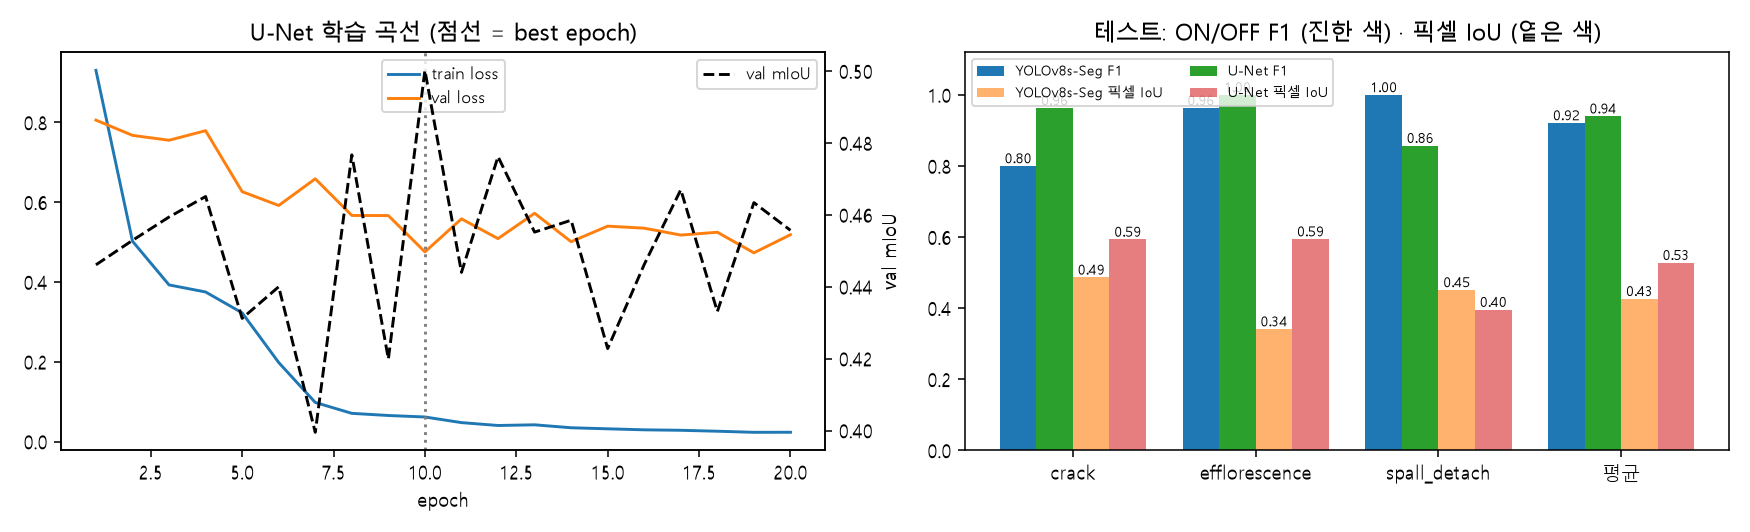
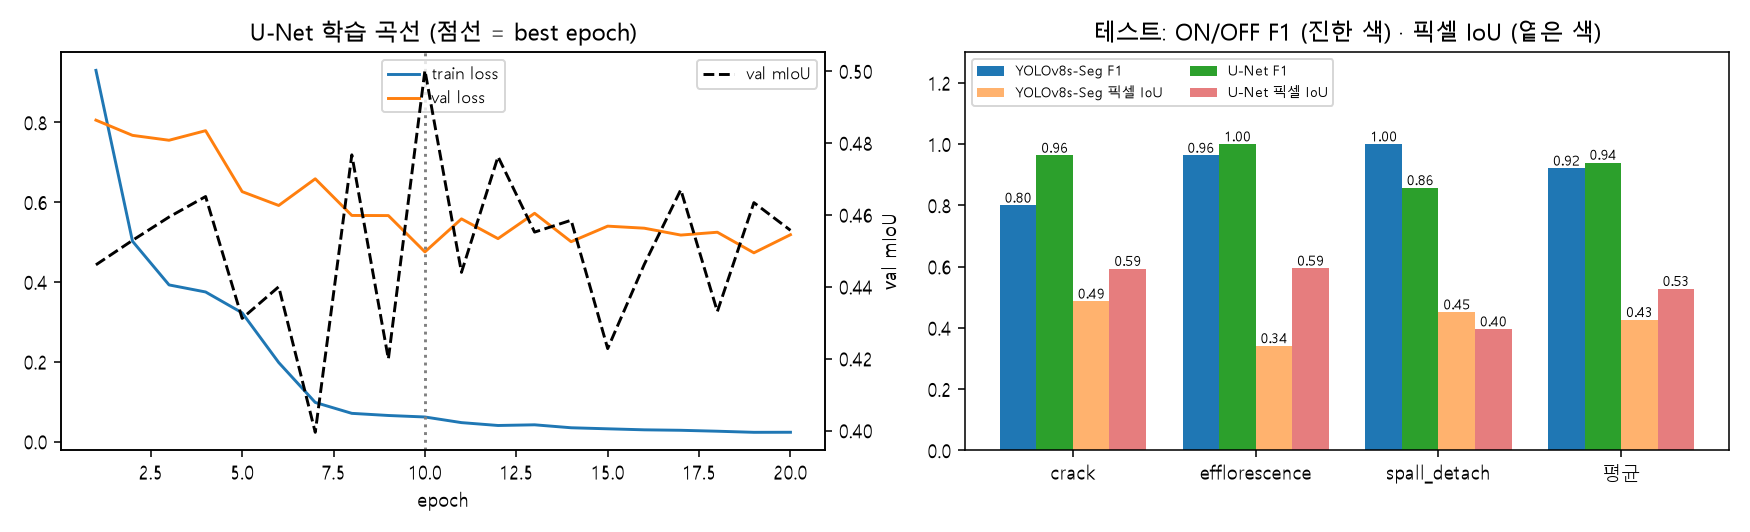
재검수 반영: README 사실 오류 정정 · best.pt만으로 재현 가능하게 run_all 수정 · 그림 겹침 수정
- README: train 원본 수(120, 전체 원본 200) · 공통 임계값 차이(efflo FN 3 + spall FN 1) ·
  efflo 면적 범위는 테스트셋 기준 · U-Net 코사인 lr · 3주차 실행 시간(약 4~5분) · 추론 시간 ±1 ms ·
  Release best.pt로 재현되는 범위를 clone 시험 결과대로 명시
- week3/run_all.bat: 심화 가중치가 없으면 해당 평가를 건너뜀 (clone + Release best.pt만으로 완료 확인)
- adv_eval_run.py: results.csv가 없으면 저장소의 이전 best_epoch 사용
- 주석기준서 v0.3: 검증 보조 오류 10건 → 11건
- 그림: val_threshold_f1 · adv3_hn_eval · adv2_unet(_aug) 라벨/범례 겹침 수정
- week2/run_all.bat 주석: 학습 시간 2.3시간, 직접 주석 스크립트 안내

diff --git a/week3/adv_eval_run.py b/week3/adv_eval_run.py
@@ -67,8 +67,16 @@ def main():
         # 학습이 끝난 ultralytics best.pt는 epoch = -1로 저장된다 (2026-11-20 발견) → results.csv에서 fitness 최고 epoch
         # (ultralytics 8.4 fitness = mAP50-95(B) + mAP50-95(M); 기준 실험 step3에서 epoch 21로 기록과 일치 확인)
         import csv
-        rows = list(csv.DictReader(open(ROOT / "runs" / args.run / "results.csv", encoding="utf-8")))
-        out["best_epoch"] = int(max(rows, key=lambda r: float(r["metrics/mAP50-95(B)"]) + float(r["metrics/mAP50-95(M)"]))["epoch"])
+        res = ROOT / "runs" / args.run / "results.csv"
+        prev = WEEK3 / "adv_runs" / f"{args.tag}.json"
+        if res.exists():
+            rows = list(csv.DictReader(open(res, encoding="utf-8")))
+            out["best_epoch"] = int(max(rows, key=lambda r: float(r["metrics/mAP50-95(B)"]) + float(r["metrics/mAP50-95(M)"]))["epoch"])
+        elif prev.exists():
+            # Release의 best.pt만 받은 경우(results.csv 없음): 저장소에 있는 이전 기록의 값을 그대로 쓴다
+            out["best_epoch"] = json.loads(prev.read_text(encoding="utf-8")).get("best_epoch")
+        else:
+            out.pop("best_epoch", None)
     out["seg_test"] = seg_metrics(model, "test", args.tag)
     out["seg_val"] = seg_metrics(model, "val", args.tag)
     out.update(select_and_test(model, args.tag))

diff --git a/week3/adv3_hn_eval.py b/week3/adv3_hn_eval.py
@@ -90,7 +90,8 @@ def main():
     ax[1].set_xticklabels([f"val 음성 조각 {neg['기준']['val']['n']}개", f"test 음성 조각 {neg['기준']['test']['n']}개"])
     ax[1].set_title("음성 조각 중 결함으로 예측한 비율")
     for a in ax:
-        a.legend()
+        a.margins(y=0.25)                    # 범례 · 막대 값 라벨이 막대와 겹치지 않게 위쪽 여유
+        a.legend(loc="upper left")
     plt.tight_layout()
     plt.savefig(WEEK3 / "adv3_hn_eval.png", dpi=140)
     plt.close()

diff --git a/week3/adv2_unet_eval.py b/week3/adv2_unet_eval.py
@@ -147,7 +147,7 @@ def main():
         ax[1].bar_label(b, fmt="%.2f", fontsize=7)
     ax[1].set_xticks(x)
     ax[1].set_xticklabels(CLASS_LIST + ["평균"])
-    ax[1].set_ylim(0, 1.12)
+    ax[1].set_ylim(0, 1.3)                                  # 범례가 막대 값 라벨을 가리지 않게
     ax[1].set_title("테스트: ON/OFF F1 (진한 색) · 픽셀 IoU (옅은 색)")
     ax[1].legend(fontsize=7, ncol=2, loc="upper left")
     plt.tight_layout()

diff --git a/week3/step3_threshold.py b/week3/step3_threshold.py
@@ -64,6 +64,7 @@ def main():
     ax.set_xlabel("Confidence threshold")
     ax.set_ylabel("F1-score")
     ax.set_title("Validation F1 by Threshold (val 40장, ○ = 선택)")
+    ax.set_ylim(top=max(max(v) for v in all_scores.values()) + 0.04)   # 선택점 라벨이 위쪽 테두리에 걸리지 않게
     ax.legend()
     ax.grid(True, alpha=0.4)
     plt.tight_layout()

diff --git a/README.md b/README.md
@@ -63,7 +63,7 @@
 
 ### 1.2 사용한 데이터 및 전처리
 
-- **규모:** 제공 4,116장(train 4,036 · val 40 · test 40, 모두 1920×1080 원본 또는 그 증강본). train 중 3,916장은 증강본(파일명 `_aug` · `_efflo_`)이고 원본은 200장이다. val · test에는 증강본이 없다(파일명 기준 40/40장 확인).
+- **규모:** 제공 4,116장(train 4,036 · val 40 · test 40, 모두 1920×1080 원본 또는 그 증강본). train 4,036장 중 3,916장은 증강본(파일명 `_aug` · `_efflo_`)이고 120장이 원본이다(원본은 train 120 · val 40 · test 40 = 200장). val · test에는 증강본이 없다(파일명 기준 40/40장 확인).
 - **무결성:** 0바이트 영상 63장(train)을 뺐다. 라벨 파일은 있었지만 영상을 읽을 수 없다(부록 A).
 - **누수 제거:** test의 `URT017_2020_02_08_001_24512`와 train 원본이 픽셀 상관 1.000(같은 영상의 재인코딩)이었다. 그 원본과 증강본 55장을 train에서 뺐다.
 - **원본 ID 단위 분할:** 파일명에서 원본 ID(`_aug` · `_efflo_` · `_jpg.rf.` 앞부분)를 뽑아 같은 원본에서 나온 영상이 한 split에만 들어가게 했다. 결과는 train 3,918 · val 40 · test 40장(원본 ID 119 · 40 · 40)이고, split 사이 원본 ID 겹침은 0이다([week2/split_report.md](week2/split_report.md)).
@@ -85,7 +85,7 @@
 |---|---|---|---|
 | **YOLOv8s-Seg** (본 실험) | CSP 백본 + FPN/PAN + 검출 헤드 + 프로토타입 마스크 헤드, 11.8M 파라미터, COCO 사전학습 | imgsz 960 · batch 4 · AdamW lr0 0.00015 · 60 epoch · patience 20 · Mosaic 0 · MixUp 0 · seed 42 (논문 Table 1 = 강의 13쪽) | 기준 · 논문 재현 |
 | YOLOv8s-Seg + 하드네거티브 | 같음 | 같은 설정 · 같은 seed, train에 사람이 확인한 배경 영상 54장 추가 | 심화 ③ |
-| **U-Net** (resnet34 인코더, ImageNet 사전학습) | 인코더-디코더 + skip, 출력 3채널 sigmoid(클래스마다 따로 — 한 픽셀에 두 결함이 겹칠 수 있음), 24.4M 파라미터 | 960×544 · BCE + Dice(배치 합산) · AdamW lr 1e-4 · 기울기 클리핑 1.0 · 최대 40 epoch · patience 10, 최종 = 강한 증강(scale 0.5 \~ 1.5 · translate 0.1 · HSV) | 모델 비교 (심화 ②) |
+| **U-Net** (resnet34 인코더, ImageNet 사전학습) | 인코더-디코더 + skip, 출력 3채널 sigmoid(클래스마다 따로 — 한 픽셀에 두 결함이 겹칠 수 있음), 24.4M 파라미터 | 960×544 · BCE + Dice(배치 합산) · AdamW lr 1e-4(코사인 감소) · 기울기 클리핑 1.0 · seed 42 · 최대 40 epoch · patience 10, 최종 = 강한 증강(scale 0.5 \~ 1.5 · translate 0.1 · HSV) | 모델 비교 (심화 ②) |
 
 - **imgsz 960을 쓴 이유:** 원본이 1920×1080이고 균열 폭은 약 3px다. 기본 640으로 줄이면 1/3이 되어 균열이 1px 수준으로 사라진다. 960이면 절반 크기라 가는 균열 특징이 더 남는다(논문 한계 03 '입력 960 리사이즈'도 같은 문제를 말한다).
 - **Mosaic · MixUp을 끈 이유:** Mosaic은 네 장을 잘라 붙여 큰 박리 · 백태 영역을 자르고, 벽면 맥락(이음부 · 케이블 위치)을 깨뜨린다. MixUp은 두 영상을 반투명하게 겹쳐 백태의 '흰색 두께감'과 반사 · 얼룩의 차이를 흐린다. 논문 설정(Table 1)도 둘 다 껐다.
@@ -101,7 +101,7 @@
 5. **단계4 테스트 고정 적용:** `thresholds.json`을 읽기만 한다. 테스트 결과를 보고 임계값을 바꾸지 않는다.
 6. **단계5 오류 분석:** 클래스별 FP · FN 영상을 [정답 | 예측] 두 칸 그림으로 뽑아 직접 보고 원인을 적는다.
 
-- **절차를 지킨 증거:** [week3/run_log.txt](week3/run_log.txt)에 실행 시각이 쌓인다. `step3_threshold`(검증셋, sha 123d40a69aca)가 `step4_test`보다 먼저 실행됐고, step4는 json의 값을 그대로 썼다. 같은 순서로 다시 돌려도 같은 임계값 · 같은 결과가 나온다. 2026-11-16 첫 실행과 2026-11-20 재실행 기록이 모두 있다. run_log의 `adv1_common_threshold`는 이름을 바꾸기 전 기록이고, 지금 파일은 `adv4_common_threshold.py`다.
+- **절차를 지킨 증거:** [week3/run_log.txt](week3/run_log.txt)에 실행 시각이 쌓인다. `step3_threshold`(검증셋, sha 123d40a69aca)가 `step4_test`보다 먼저 실행됐고, step4는 json의 값을 그대로 썼다. 같은 순서로 다시 돌려도 같은 임계값 · 같은 결과가 나온다. 2026-11-16 첫 실행과 2026-11-20 · 11-21 재실행 기록이 모두 있다(매번 같은 임계값 · 같은 macro F1 0.921). run_log의 `adv1_common_threshold`는 이름을 바꾸기 전 기록이고, 지금 파일은 `adv4_common_threshold.py`다.
 - 심화 모델(시드 · 하드네거티브 · U-Net · 타일)도 각자 검증셋에서 임계값을 고르고 테스트에 고정 적용한다(`adv_eval_run.py` · `adv2_unet_eval.py` · `adv1_tile.py`).
 
 ### 1.5 실행 방법
@@ -118,11 +118,11 @@ python -m venv .venv
 week1\run_all.bat
 :: 3) 2주차: 무결성 점검 → 원본 ID 단위 분할(→ %USERPROFILE%\datasets\crack-seg-split) → 학습(약 2.3시간) → 학습 곡선
 week2\run_all.bat
-:: 4) 3주차: 평가 6단계 + 심화 평가 + 리포트 표 · 그림 (학습된 가중치 필요, 약 15분)
+:: 4) 3주차: 평가 6단계 + 심화 평가 + 리포트 표 · 그림 (학습된 가중치 필요, 약 4 ~ 5분)
 week3\run_all.bat
 ```
 
-- 학습된 가중치 `best.pt`(기준 모델, 23.9MB)는 코드와 분리해 저장소의 [Releases v1.0](../../releases/tag/v1.0)에 올려 두었다. 받아서 `runs/step3/weights/best.pt`에 넣으면 3주차를 학습 없이 바로 재현할 수 있다.
+- 학습된 가중치 `best.pt`(기준 모델, 23.9MB)는 코드와 분리해 저장소의 [Releases v1.0](../../releases/tag/v1.0)에 올려 두었다. 받아서 `runs/step3/weights/best.pt`에 넣으면, 학습 없이 `week3\run_all.bat`으로 **실습 6단계(③④⑤⑥) · 심화 ①④⑥ · 데이터 통계 · 연산량 · 기준서 그림**이 다시 만들어진다. 새로 clone한 저장소에 Release의 best.pt만 넣고 돌려서 mAP · 임계값 · ON/OFF 표와 그림이 저장소의 파일과 같게 나오는 것을 확인했다(추론 시간만 측정마다 ±1 ms). 심화 ②③⑤ 평가와 모델 비교표는 재학습한 가중치가 있어야 하며, 없으면 그 단계는 건너뛰고 저장소의 결과 파일을 그대로 쓴다.
 - 심화 학습(시드 · 하드네거티브 · U-Net)은 `week3/run_all.bat` 맨 아래 주석의 명령, 또는 `week3/overnight.py`(train_queue.txt 순서로 학습 + 평가)로 다시 만든다. 합계 약 9시간이다.
 
 ### 1.6 코드 파일 설명
@@ -178,7 +178,7 @@ week3\run_all.bat
 
 - **선택:** crack 0.2 · efflorescence 0.02 · spall_detach 0.06 (검증 F1 0.909 · 0.812 · 0.897, macro 0.873).
 - **선택 근거:** 클래스마다 검증 F1 최대인 값을 고르고, 동점이면 낮은 값을 골랐다(놓치는 것이 더 위험한 점검 목적이라 재현율 우선). crack은 0.2와 0.3이 동점이라 0.2, efflorescence는 0.02 \~ 0.3이 동점이라 0.02다. efflorescence 검증 FN은 0.01 이상에서 4건, 가장 낮은 0.001에서도 3건이 남는다. 그 영상들의 백태 최고 신뢰도는 0.007 이하였고, 4건 모두 균열 · 벗겨진 층 모양이 efflorescence로 라벨된 경우였다(3.2절).
-- 세 클래스의 곡선 정점이 다르다(0.2 · 0.02 · 0.06). 그래서 **클래스별 임계값**이 필요하다. 공통 임계값 하나(검증 최적 0.2)와 비교하면 클래스별 쪽이 테스트 macro F1 0.921 vs 0.878로 +0.043 높다(검증 +0.013, [adv4](week3/adv4_common_threshold.md)). 차이는 efflorescence에서 났다. 공통 0.2에서는 FN이 3건 생긴다.
+- 세 클래스의 곡선 정점이 다르다(0.2 · 0.02 · 0.06). 그래서 **클래스별 임계값**이 필요하다. 공통 임계값 하나(검증 최적 0.2)와 비교하면 클래스별 쪽이 테스트 macro F1 0.921 vs 0.878로 +0.043 높다(검증 +0.013, [adv4](week3/adv4_common_threshold.md)). 차이는 주로 efflorescence에서 났다. 공통 0.2에서는 efflorescence FN이 3건(F1 0.963 → 0.870), spall_detach FN이 1건(1.000 → 0.963) 생긴다.
 
 ### 2.3 테스트 ON/OFF 결과 (제출물 ⑤, 임계값 고정)
 
@@ -210,7 +210,7 @@ week3\run_all.bat
 | U-Net (약한 증강) | 계산 불가 | 0.593 / 0.594 / 0.396 / 0.528 | 같음 |
 
 - **U-Net은 두 개 중 검증 mIoU가 높은 쪽(강한 증강 0.529 > 약한 증강 0.500)을 미리 정한 규칙대로 최종으로 골랐다.** 테스트에서는 약한 증강 쪽이 더 좋았다(0.940). 테스트를 보고 바꾸면 반칙이라 그대로 두었다. 검증 40장으로 고른 것이 테스트 40장에서 뒤집히는 사례다.
-- 연산량은 [week3/flops.md](week3/flops.md)에 있다(torch flop counter, RTX 3060 Laptop에서 학습이 끝나 GPU가 한가할 때 잼). U-Net은 YOLO의 2.1배 파라미터 · 2.5배 연산 · 1.8배 시간이 든다.
+- 연산량은 [week3/flops.md](week3/flops.md)에 있다(torch flop counter, RTX 3060 Laptop에서 학습이 끝나 GPU가 한가할 때 잼). U-Net은 YOLO의 2.1배 파라미터 · 2.5배 연산 · 1.8배 시간이 든다. 추론 시간은 다시 잴 때마다 ±1 ms 정도 달라진다.
 
 ### 2.5 반복 학습 (심화 ⑤, 같은 설정 · 시드만 다름)
 
@@ -232,7 +232,7 @@ week3\run_all.bat
 - **클래스별 차이 — 데이터 수 · 결함 크기 · 경계 명확성** ([data_stats.md](week3/data_stats.md)):
   - spall_detach가 가장 잘 된다(mAP50 0.900, F1 1.000). train 원본 인스턴스가 89개로 가장 많고, 모양이 덩어리에 가깝다(둥근 정도 중앙값 0.64). 깨진 가장자리라는 분명한 경계도 있다.
   - crack은 ON/OFF가 가장 약하다(F1 0.800). 인스턴스가 31개로 가장 적고, 가는 띠 모양이다(둥근 정도 중앙값 0.09 \~ 0.17). 테스트 FN 3건은 모두 가늘거나 대비가 낮은 균열이었다. 경계 몇 픽셀 차이가 IoU를 크게 바꿔서 mAP50-95도 0.244로 낮다.
-  - efflorescence는 ON/OFF는 좋은데(F1 0.963) mask mAP50이 가장 낮다(0.328). 영상에 백태가 있는지는 잘 알아보지만 경계가 번져 있어 인스턴스 경계가 정답과 어긋난다(테스트 mask Recall 0.263). 면적 범위도 0.46 \~ 41.8%로 가장 넓다. 시드 간 변동도 가장 크다(± 0.189).
+  - efflorescence는 ON/OFF는 좋은데(F1 0.963) mask mAP50이 가장 낮다(0.328). 영상에 백태가 있는지는 잘 알아보지만 경계가 번져 있어 인스턴스 경계가 정답과 어긋난다(테스트 mask Recall 0.263). 테스트셋에서 면적 범위도 0.46 \~ 41.8%로 가장 넓다. 시드 간 변동도 가장 크다(± 0.189).
 - **mAP와 ON/OFF가 다른 이야기를 한다:** mask mAP50 0.614(경계 · 위치)인데 ON/OFF macro F1 0.921(영상 선별)이다. 경계가 완벽하지 않아도 결함 영상을 골라내는 것은 안정적이다. 실무의 1차 목적(결함 가능성이 있는 영상을 먼저 보여 주기)에는 ON/OFF가 맞는 지표이고, 위치 · 범위 기록에는 mAP가 필요하다. 그래서 두 축을 함께 본다(논문 주장과 같음). 단 ON/OFF는 **틀린 위치로도 맞힐 수 있다.** 타일 추론에서 crack FN 영상 13040을 0.846으로 '맞혔는데', 그 예측은 진짜 균열(0.59)이 아니라 왼쪽 기둥 가장자리였다(심화 ①).
 - **YOLO vs U-Net:** 영상 선별(macro F1)은 사실상 같다(0.921 vs 0.923, 차이 CI −0.098 \~ +0.098). 픽셀 단위로는 U-Net이 crack · efflorescence 경계를 더 잘 맞춘다(픽셀 IoU 0.530 · 0.518 vs 0.487 · 0.341). 대신 spall_detach는 YOLO가 낫고(0.451 vs 0.442, ON/OFF 1.000 vs 0.923), U-Net은 2.5배 무겁다. U-Net은 인스턴스를 나누지 못해 '결함 몇 개'를 셀 수 없다.
 - **하드네거티브:** 테스트 mAP50은 올랐다(0.614 → 0.706, mAP50-95 0.293 → 0.344, 시드 평균 0.673보다도 위). crack ON/OFF도 좋아졌다(F1 0.800 → 0.923). 그러나 efflorescence 오탐이 1 → 5건으로 늘어 macro F1은 0.921 → 0.908이 됐다. 결함 없는 평가용 조각에서의 오탐 비율은 검증 35 → 30%, 테스트 39 → 41%로 섞여 있다(crack · spall 오탐은 줄고 efflo 오탐은 늘어남, [adv3_hn_eval.md](week3/adv3_hn_eval.md)). 한 번 학습한 결과라 시드 변동(± 0.063) 안의 차이로 본다.
@@ -390,7 +390,7 @@ week3\run_all.bat
 
 ## 부록 A. 1주차 — 결함 이해와 데이터 준비
 
-- 데이터 요약([week1/data_summary.md](week1/data_summary.md)): 4,116장, train의 97%가 증강본(원본 200장). 0바이트 영상 63장 발견.
+- 데이터 요약([week1/data_summary.md](week1/data_summary.md)): 4,116장, train의 97%가 증강본(원본은 train 120 · val 40 · test 40 = 200장). 0바이트 영상 63장 발견.
 - 관찰: [week1/samples9.png](week1/samples9.png) (무작위 9장) · 밝기 분포 [week1/brightness.md](week1/brightness.md) · 원본 199장 접촉 시트 [week1/contact_sheets/](week1/contact_sheets/)
 - 하드네거티브 7건(강의 12쪽 6종 + 분필): 시공이음부 · 케이블 · 그림자 · 정반사 · 보수흔적 · 표면오염 · 분필 → [week1/hard_negatives.png](week1/hard_negatives.png)
 - 주석기준서 v0.2: [week1/annotation_guideline.md](week1/annotation_guideline.md) (→ 3주차 v0.3)

diff --git a/week3/annotation_guideline_v0.3.md b/week3/annotation_guideline_v0.3.md
@@ -9,7 +9,7 @@
 
 | 근거 (실험) | 바꾼 곳 |
 |---|---|
-| 테스트 오류 6건(⑥) · 검증셋 보조 오류 10건(error_cases_val_notes.md) | ③ 제외 대상 추가(명암 띠 · 분필 · 바닥 얼룩 · 거친 질감), ② 포함 보강(가는 균열 3유형) |
+| 테스트 오류 6건(⑥) · 검증셋 보조 오류 11건(crack FP 2 · efflo FP 2 · FN 4 · spall FP 3, error_cases_val_notes.md) | ③ 제외 대상 추가(명암 띠 · 분필 · 바닥 얼룩 · 거친 질감), ② 포함 보강(가는 균열 3유형) |
 | 하드네거티브 108장 사람 검토(adv3_hn_review.csv: 남김 15 · 실제 결함 13 · 판단 어려움 80) | ③ 시설물 부착물(브래킷 · 클램프 · 볼트 · 앵커 구멍 · 배관) 추가, ⑤ 라벨 누락 점검 절차 |
 | 검증셋 efflorescence FN 4건이 모두 '균열 선 · 벗겨진 층 모양인데 efflo로 라벨된 영역' | ① spall_detach 정의를 박락 / 박리로 나눠 적음, ④ '균열 + 백태' · '백태 ↔ 박리' 판정 규칙 |
 | 균열 폭 정량화(심화 ⑥): 제공 라벨 띠 37px vs 실제 어두운 균열 3px | ④ crack 경계는 '보이는 폭' 유지 + 제공 데이터와 다르다는 점을 명시(한계) |

diff --git a/week3/onoff_test.md b/week3/onoff_test.md
@@ -1,6 +1,6 @@
 # 단계4 테스트셋 ON/OFF 결과 (임계값 = 검증셋에서 선택, 고정 적용)
 
-- thresholds.json 생성 2026-11-20 19:33:42 (val 40장, sha 123d40a69aca) → 변경 없이 사용
+- thresholds.json 생성 2026-11-21 02:33:33 (val 40장, sha 123d40a69aca) → 변경 없이 사용
 - 테스트 영상 40장
 
 | 지표 | crack | efflorescence | spall_detach | macro |
